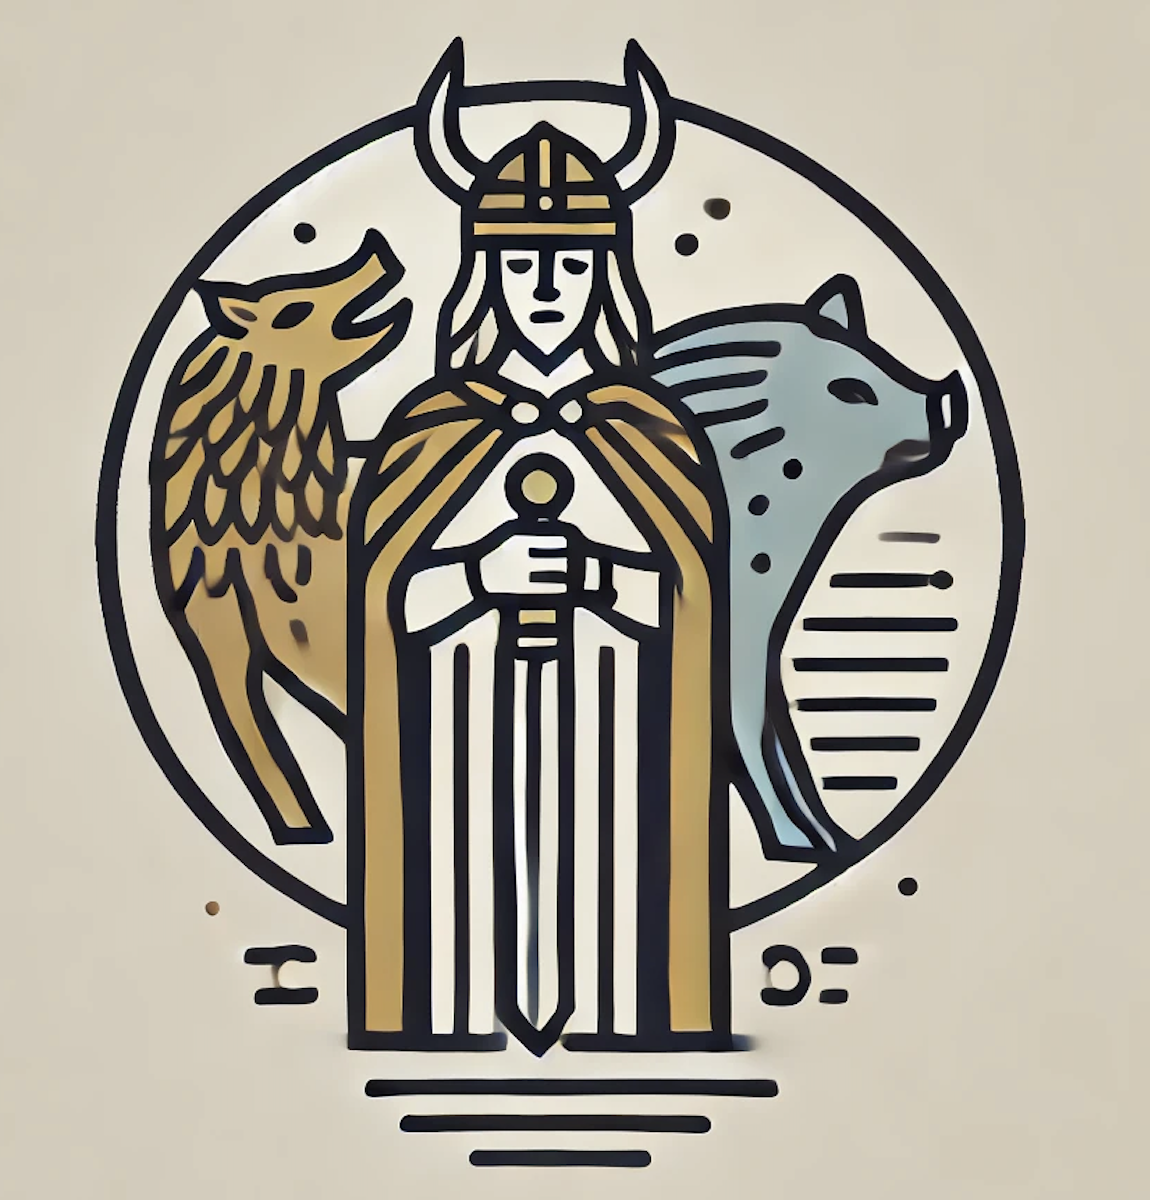
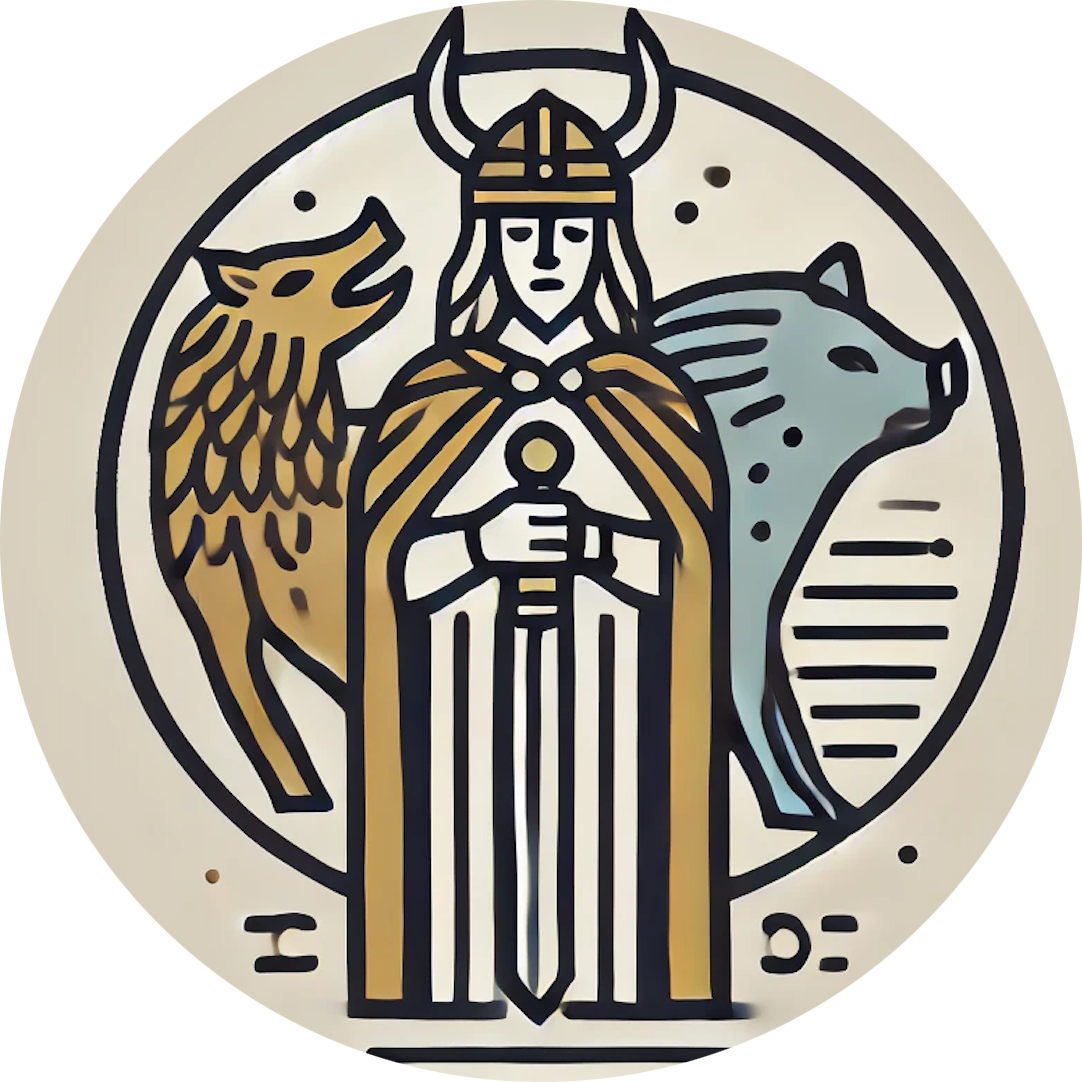
docs: crop header image, add license file (#13)

diff --git a/README.md b/README.md
@@ -1,12 +1,18 @@
 <div align="center">
-  <img src="https://github.com/bjornthiberg/project_frej/images/header.png" alt="Frej" width="287.5" height="300">
-  <h3 align="center">Project Frej</h3>
+  <img src="images/header.png" alt="Frej" width="250" height="250">
+  <h1 align="center">Project Frej</h3>
   <p align="center">
-    @bjornthiberg
+    Environmental Data Collection and Visualization App for a Raspberry Pi + Server
     <br/>
   </p>
 </div>
 
+## Description
+
 Project Frej is a project built using Python, ASP.NET Core, SQLite and a [TBD] frontend, designed to collect, separately store, and display environmental data from a Raspberry Pi environmental sensor HAT.
 
 A blog detailing the development process for personal sake can be found [here](https://bjornthiberg.github.io/project_frej), hosted on GitHub pages, in this repo.
+
+## License
+See separate [LICENSE](LICENSE.txt) file
+
